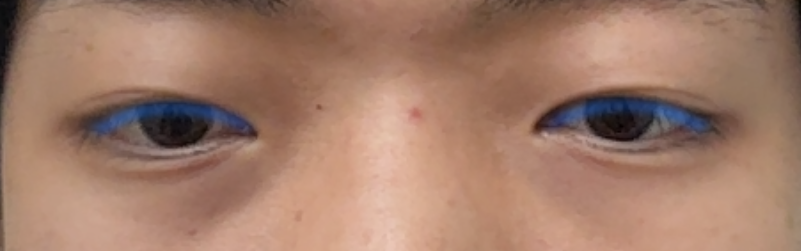
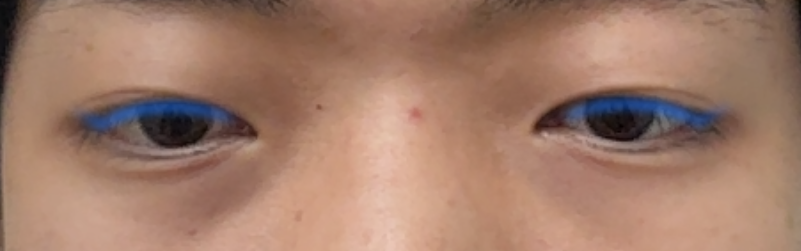
docs: reflect eyeliner human review preference

diff --git a/docs/product/e7-eyeliner-candidate-experiment-report-2026-06-27/README.md b/docs/product/e7-eyeliner-candidate-experiment-report-2026-06-27/README.md
@@ -4,7 +4,7 @@
 
 ## 1. 한 줄 결론
 
-이번 실험의 추천 조합은 **`mp-upper-balanced-v0`** 이다. 추적 기준은 MediaPipe upper eyelid landmark이고, 모양은 parametric eyeliner curve로 만든다. fallback은 **`mp-tail-only-v0`** 로 둔다.
+여성 리뷰 피드백을 반영한 최종 추천 조합은 **`asset-fit-wing-local-style-v0`** 이다. 추적 기준은 MediaPipe upper eyelid landmark를 유지하되, 최종 아이라인 모양은 눈꼬리까지 채우는 wing style preset으로 만든다. 기준선/reference는 **`mp-upper-balanced-v0`**, 안전 fallback은 **`mp-tail-only-v0`** 로 둔다.
 
 ## 2. 왜 다시 실험했나
 
@@ -28,6 +28,7 @@
 | Parametric curve | landmark를 그대로 칠하지 않고, 두께/꼬리/부드러움을 가진 곡선으로 다시 만든 마스크 |
 | Eye opening overlap | 눈동자/눈 안쪽으로 침범했는지 보는 안전 지표. 이번 표에서는 boundary가 아니라 안쪽 safety zone 기준 |
 | Legacy baseline | 기존 eye prior + dark pixel 방식. 같은 frame에서 다시 생성해 비교 |
+| Human-review selected | 숫자 점수보다 실제 화장처럼 보이는지를 우선해 사람이 고른 후보 |
 
 ## 4. Geometry 확인
 
@@ -59,16 +60,16 @@
 
 <figure>
   <img src="assets/05-selected-candidate-eye-crop.png" width="760" alt="Selected eyeliner crop">
-  <figcaption>그림 5. 선택 후보 `mp-upper-balanced-v0`. MediaPipe upper eyelid를 직접 따라가며, 앱 기본값으로 쓰기 좋은 균형형 형태다.</figcaption>
+  <figcaption>그림 5. 선택 후보 `asset-fit-wing-local-style-v0`. MediaPipe upper eyelid 기준선을 쓰되, 눈꼬리까지 채우는 wing style로 확장한 형태다.</figcaption>
 </figure>
 
 선택 이유:
 
-- eye opening overlap이 낮다.
-- inner corner를 약간 비워 실제 앱에서 어색한 번짐을 줄인다.
-- wing을 기본값으로 강제하지 않아 사용자 조정으로 확장하기 쉽다.
-- legacy eye-prior baseline보다 추적 기준 설명이 명확하다.
-- UV round-trip에서 thin-line 특유의 손실은 있지만, 앱 구현용 source policy로는 충분히 명확하다.
+- 여성 리뷰에서 `asset-fit-wing`이 가장 아이라인처럼 보인다는 피드백이 나왔다.
+- 실제 아이라인은 눈꼬리까지 채워져야 하므로, 단순 upper-line보다 wing style이 제품 기대에 더 맞다.
+- eye opening overlap은 `0.0`으로 안전 지표를 통과했다.
+- `tailStartDistanceFromOuterCornerPx=2.571`로 눈꼬리 시작점이 outer corner에 잘 붙는다.
+- `mp-upper-balanced-v0`는 최종 화장 모양이라기보다 tracking anchor/reference로 쓰는 편이 맞다.
 
 ## 8. Fallback
 
@@ -99,12 +100,21 @@ Legacy baseline 해석:
 - UV IoU만 보면 높아 보이는 후보가 있지만, eye opening overlap과 upper lid distance가 훨씬 나쁘다.
 - 따라서 기존 방식은 앱 기본 tracking으로 쓰지 않고, 비교용 baseline 또는 보조 참고로만 둔다.
 
+Human review 해석:
+
+- 기술 점수만 보면 `mp-upper-balanced-v0`가 가장 높다.
+- 하지만 이 후보는 "아이라인 완성형"이라기보다 깔끔한 기준선에 가깝다.
+- 여성 리뷰에서는 눈꼬리까지 채우는 `asset-fit-wing-local-style-v0`가 더 아이라인처럼 보인다는 판단이 나왔다.
+- 따라서 앱 구현의 기본 visual preset은 `asset-fit-wing-local-style-v0` 방향으로 잡고, `mp-upper-balanced-v0`는 기준선/reference로 사용한다.
+
 ## 10. 앱 구현으로 넘길 결정
 
 ```txt
 primary tracker: MediaPipe upper eyelid landmark
+tracking/reference anchor: mp-upper-balanced-v0
+selected visual preset: asset-fit-wing-local-style-v0
 shape model: parametric eyeliner curve
-style preset: natural/minimal first, wing as user preset
+style preset: wing/default, natural as conservative option
 runtime substrate: ARFace UV
 fallback: tail-only or soft lashline
 color/edge: optional snap helper only
@@ -147,7 +157,7 @@ blinkFade
 - 이 결과는 static buildless frame 기준이다.
 - blink/yaw/squint 안정성은 iPhone AR 화면에서 따로 봐야 한다.
 - UV round-trip은 얇은 선 특성상 IoU가 낮을 수 있으므로, runtime에서는 실제 렌더링 crop으로 판단해야 한다.
-- authored wing preset은 제품적으로 가능성이 있지만 기본값으로는 보수적으로 숨기는 편이 맞다.
+- authored wing preset은 여성 리뷰 기준 가장 좋아 보였지만, blink/yaw에서 튀는지는 iPhone에서 확인해야 한다.
 
 ## 12. 산출물 위치
 
@@ -162,4 +172,4 @@ blinkFade
 
 ## 13. 최종 판정
 
-아이라인 앱 구현은 진행 가능하다. 단, 최종 구현 전략은 **MediaPipe upper eyelid + parametric natural preset + tail-only fallback + 사용자 조정**으로 제한한다. 기존 eye-prior/dark-pixel 방식은 baseline 또는 보조 참고로만 둔다.
+아이라인 앱 구현은 진행 가능하다. 최종 구현 전략은 **MediaPipe upper eyelid anchor + asset-fit wing style preset + tail-only fallback + 사용자 조정**으로 갱신한다. `mp-upper-balanced-v0`는 최종 아이라인 자체가 아니라 추적 기준선/reference로 두고, 기존 eye-prior/dark-pixel 방식은 baseline 또는 보조 참고로만 둔다.

diff --git a/docs/product/e7-eyeliner-candidate-experiment-report-2026-06-27/artifacts/app_handoff_ui_notes.md b/docs/product/e7-eyeliner-candidate-experiment-report-2026-06-27/artifacts/app_handoff_ui_notes.md
@@ -1,13 +1,15 @@
 # E7 Eyeliner App Handoff UI Notes
 
-Selected candidate: `mp-upper-balanced-v0`
+Selected visual candidate: `asset-fit-wing-local-style-v0`
+Tracking/reference anchor: `mp-upper-balanced-v0`
 Fallback candidate: `mp-tail-only-v0`
 
 Implementation recommendation:
 
 - Use MediaPipe upper eyelid landmarks as the primary tracker.
-- Generate a parametric natural/minimal line by default.
-- Keep wing as a user-expanded style preset, not as the first default.
+- Use `mp-upper-balanced-v0` as the clean tracking/reference anchor.
+- Generate `asset-fit-wing-local-style-v0` style by default because human review preferred the outer-corner-filled look.
+- Keep natural/minimal as a conservative option, not as the product default.
 - Keep tail-only as the fallback when inner-eye spill or full-line instability appears.
 - Color/edge may only be a small snap helper. It must not become the primary tracker.
 - Face parsing remains an offline/evaluation helper, not runtime primary.

diff --git a/docs/product/e7-eyeliner-candidate-experiment-report-2026-06-27/artifacts/summary.md b/docs/product/e7-eyeliner-candidate-experiment-report-2026-06-27/artifacts/summary.md
@@ -2,7 +2,9 @@
 
 Status: `complete_buildless_local_only`
 
-Selected: `mp-upper-balanced-v0`
+Selected visual candidate: `asset-fit-wing-local-style-v0`
+
+Tracking/reference anchor: `mp-upper-balanced-v0`
 
 Fallback: `mp-tail-only-v0`
 
